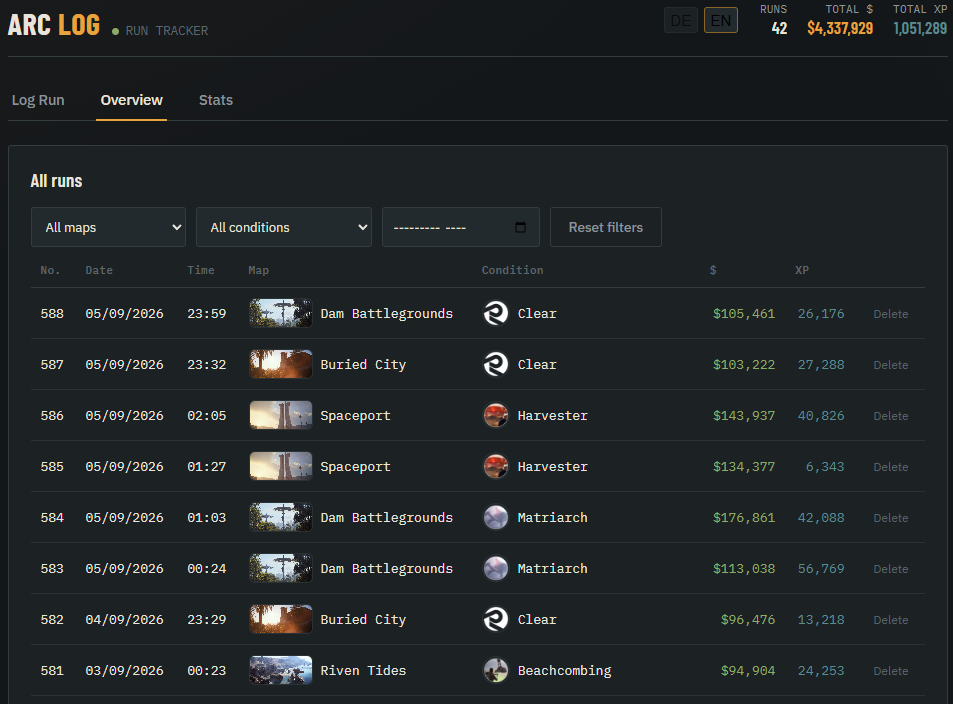
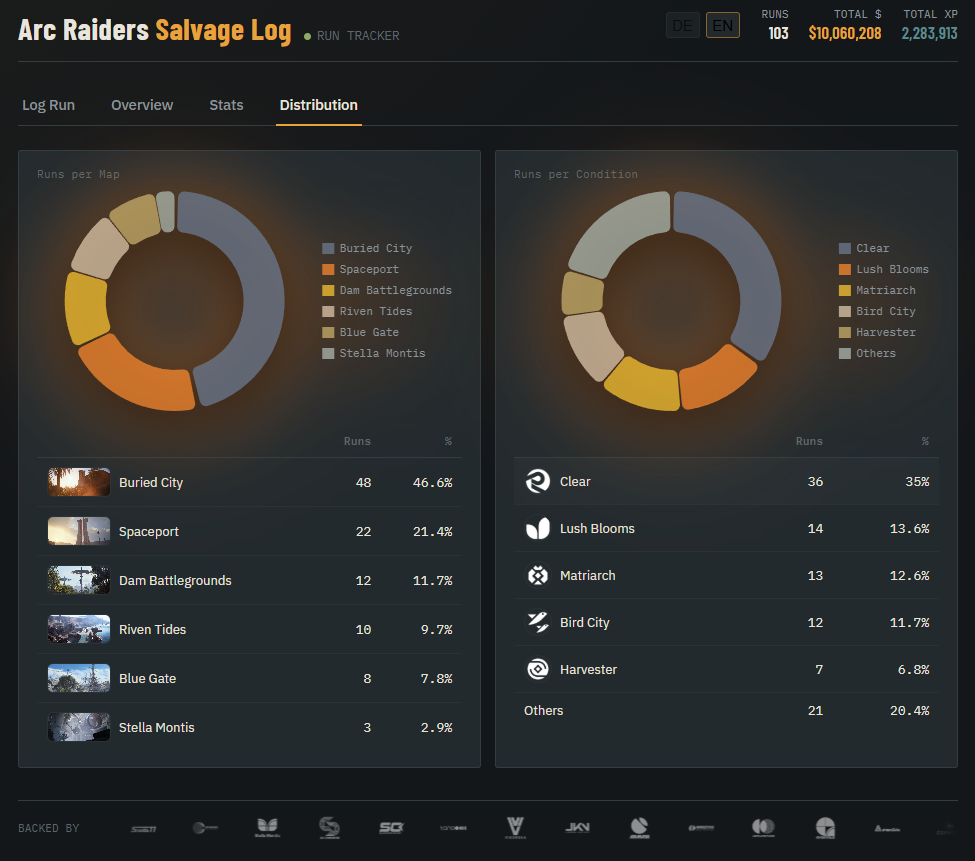
updated documentation and screenshots

diff --git a/README.md b/README.md
@@ -43,8 +43,8 @@ with analytics broken down by map, map condition, and month.
   - [Features](#features)
   - [Screenshots](#screenshots)
     - [Log a run](#log-a-run)
-    - [Overview](#overview)
     - [Stats](#stats)
+    - [Distribution (Map / Condition)](#distribution-map--condition)
   - [License](#license)
 
 ---
@@ -81,6 +81,7 @@ arc-raiders-salvage-log/
 ├── images/
 │   ├── conditions/
 │   ├── maps/
+│   └── companies/
 └── web/
     ├── Dockerfile
     ├── nginx.conf
@@ -139,6 +140,9 @@ You can include your own images to be displayed for maps and conditions. Add the
 * Map
   * Use the actual map name without spaces.
   * Example: `stellamontis.webp`
+* (optional) Companies:
+  * Company names to display in the marquee ticker at the bottom of the page
+  * Example: `J_Kozma_Ventures_Logo.webp`
 
 If you do not include any images only the name of the map an map condition will be displayed. 
 
@@ -186,20 +190,21 @@ git push origin x.y.z
     - Monthly
 - Language support for English and German
 - Healthchecks for all containers
+- Fun: Marquee ticker 
 
 --- 
 ## Screenshots
 
-Screenshots include local images.
+Screenshots include local images that are not part of the repository. Those can be added to the respective `/image` folders following the naming convention in [Naming convention](#Namingg-convention).
 
 ### Log a run
 ![Screenshot - Log a run](docs/screenshots/arc_raiders_salvage_log_screenshot_log_run.png)
 
-### Overview
-![Screenshot - Overview](docs/screenshots/arc_raiders_salvage_log_screenshot_overview.png)
-
 ### Stats
 ![Screenshot - Stats](docs/screenshots/arc_raiders_salvage_log_screenshot_stats.png)
+
+### Distribution (Map / Condition)
+![Screenshot - Overview](docs/screenshots/arc_raiders_salvage_log_screenshot_overview.png)
 
 ---
 ## License
